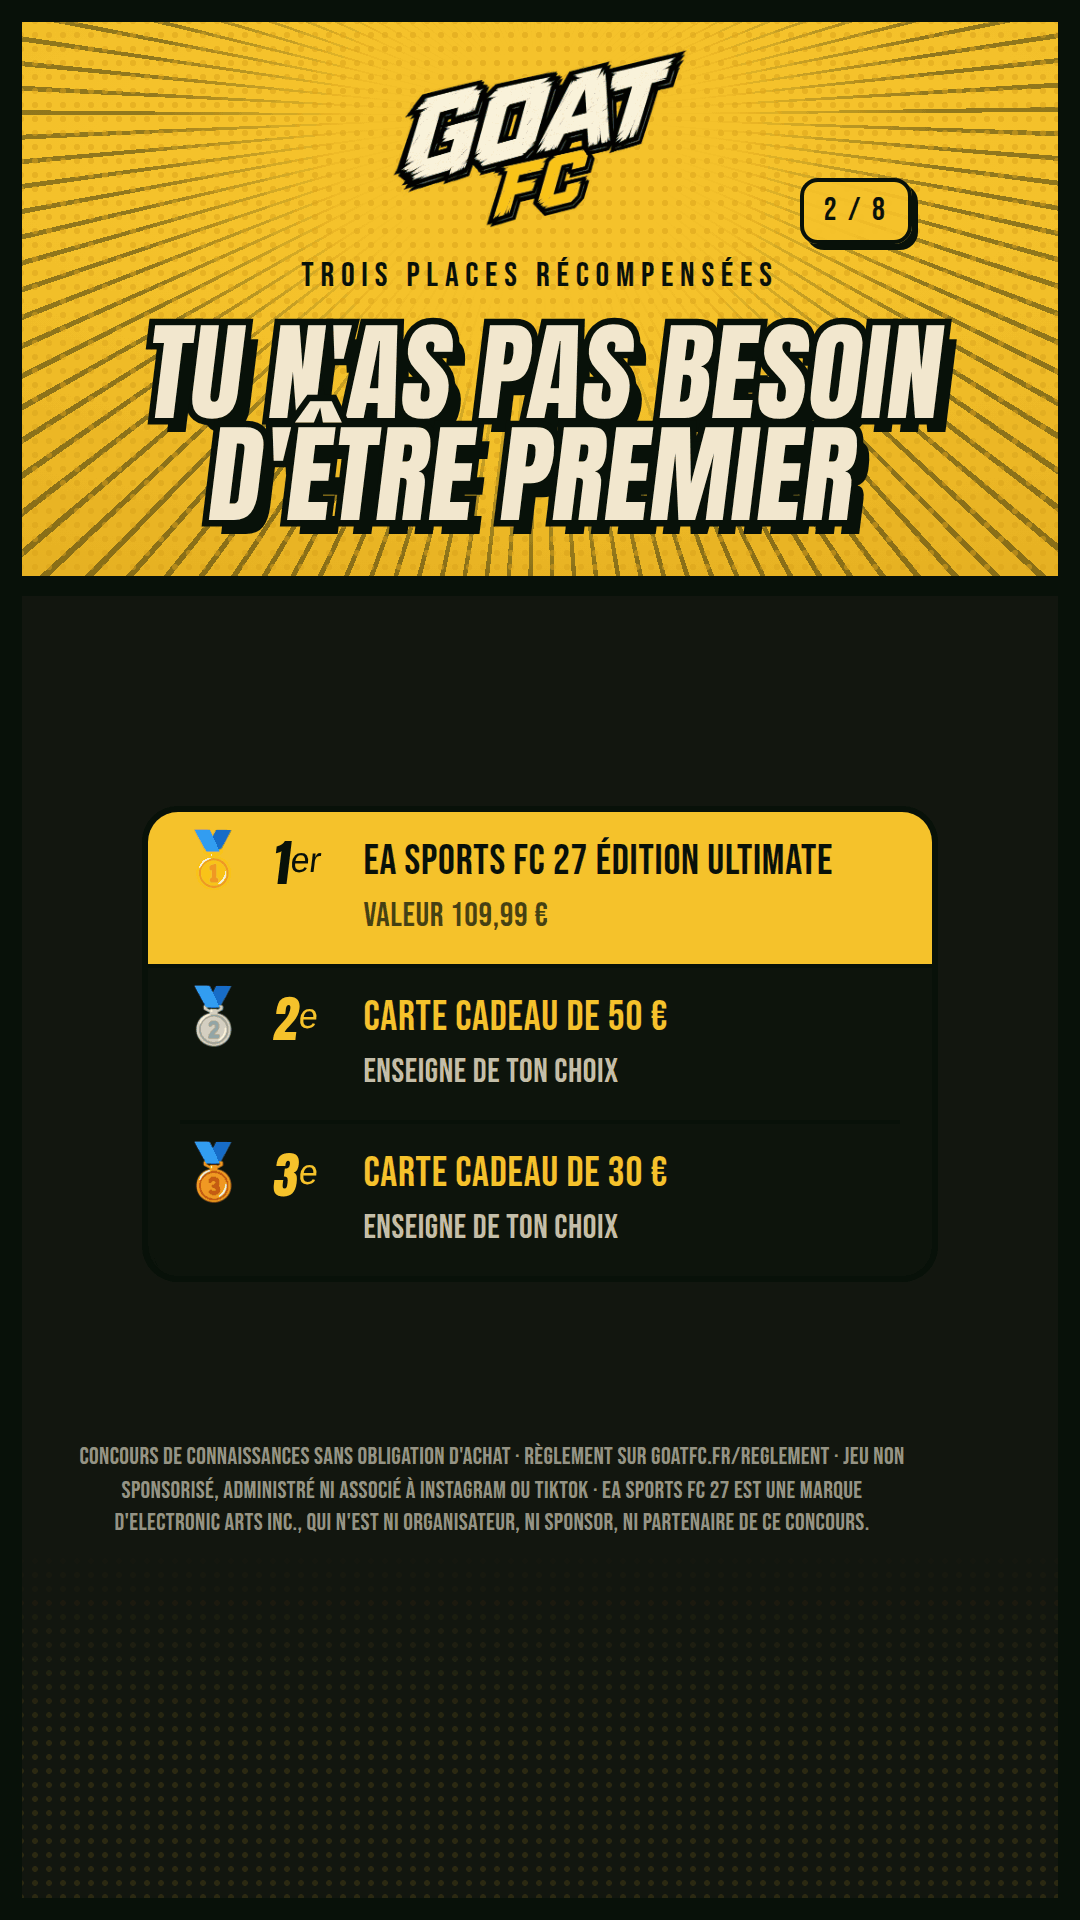
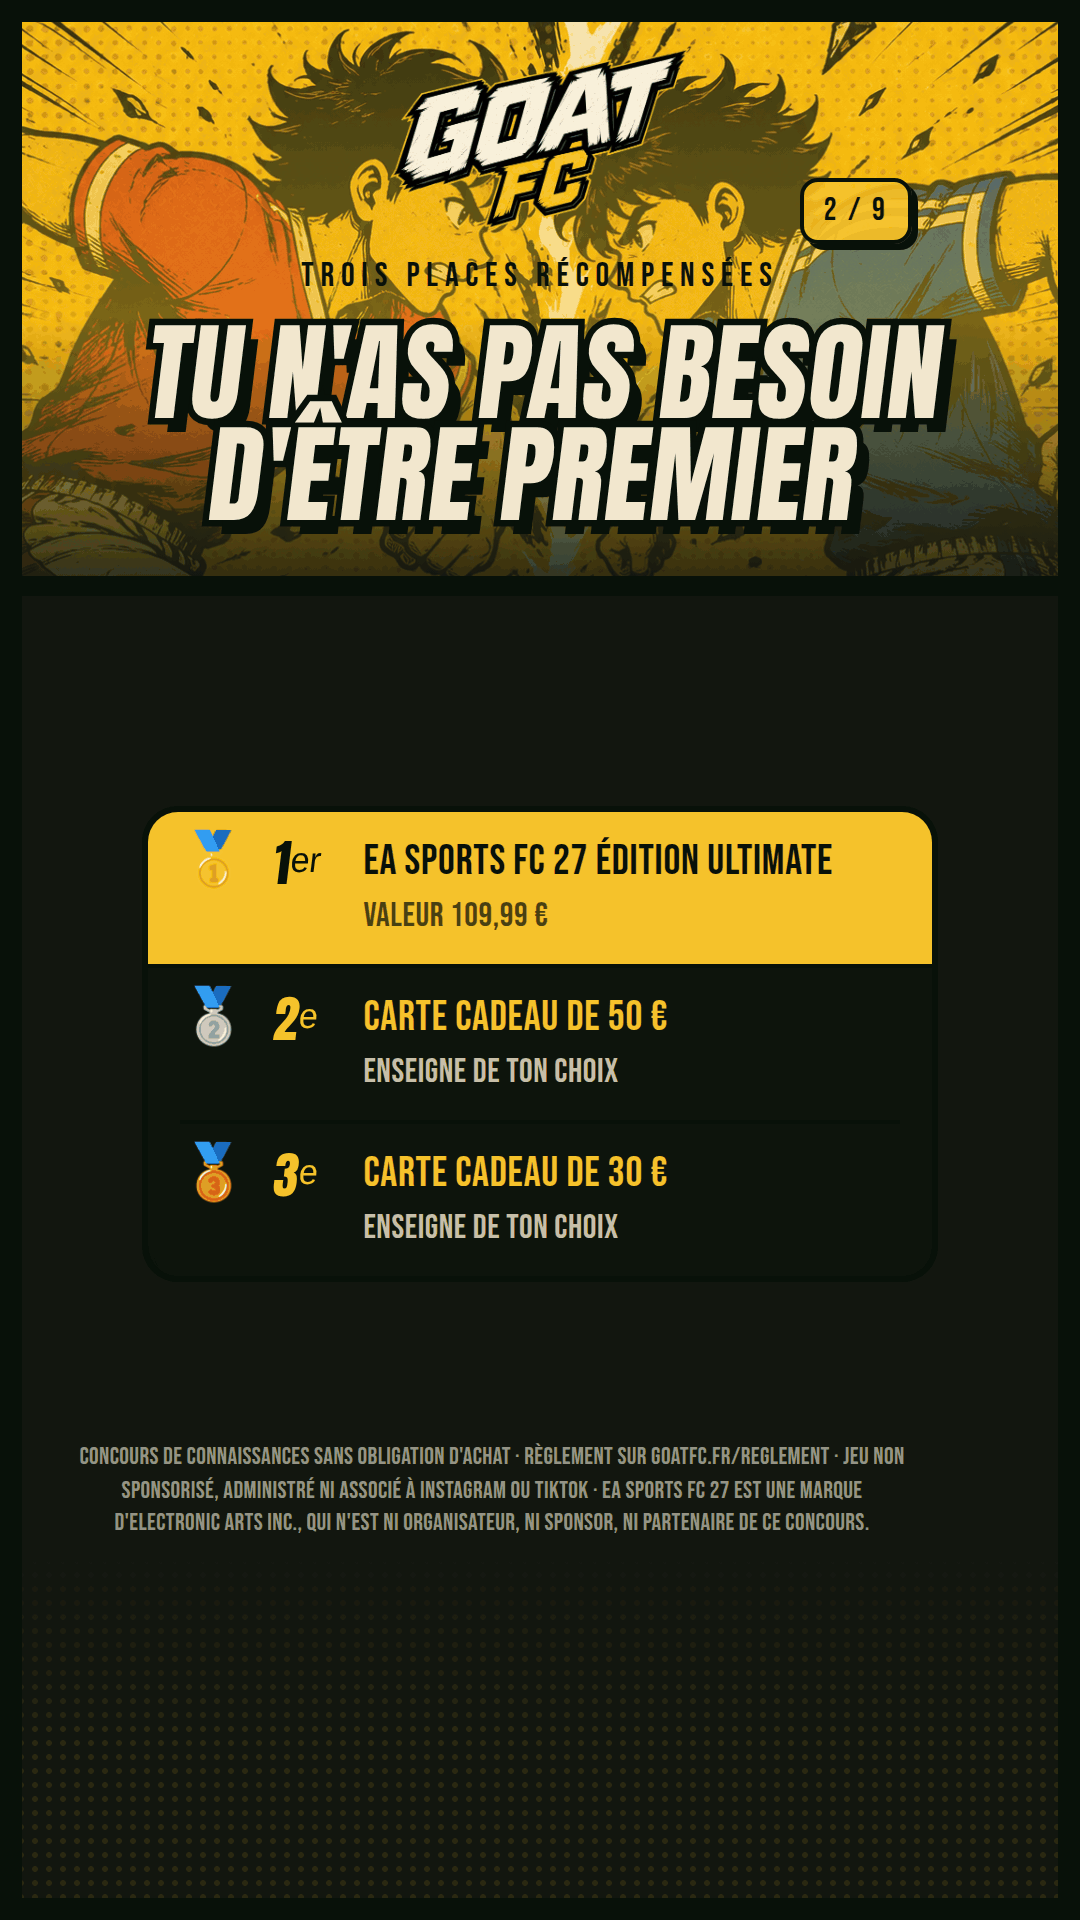
Carrousel : de vraies captures de l'app, et l'illustration manga en fond du podium (#613)
* Carrousel : de vraies captures de l'app, et l'illustration manga en fond

Demande : rendre les visuels plus impactants avec des captures de l'app, et
un podium avec des personnages manga.

── LES CAPTURES SONT DE VRAIES CAPTURES ──────────────────────────────

Produites par scripts/apercu.mjs, pas dessinees. Une maquette montre ce
qu'on voudrait montrer ; une capture montre ce qui existe. Sur un visuel de
concours la difference n'est pas cosmetique — c'est la promesse faite a
quelqu'un qui va installer l'app derriere.

Deux ecrans choisis parce qu'ils EXPLIQUENT le jeu sans legende :
« Manchester United x PSG, un joueur ayant joue dans les deux » et le
parcours en couleurs de clubs de la devinette. Recadres au MEME rapport,
sinon deux telephones cote a cote n'ont pas la meme tete, et le vide d'or du
bas d'ecran ne dit rien du jeu.

Posee en 3e position, juste apres le podium : quelqu'un qui n'a jamais
ouvert l'app ne sait pas ce qu'on lui demande de jouer. Trois diapositives
de regles avant de lui avoir montre l'ecran, c'est expliquer les regles d'un
sport qu'il n'a jamais vu.

Cadrees a la charte — trait d'encre, ombre dure — et volontairement SANS
coque de telephone dessinee : une coque generique ajoute du chrome qui n'est
pas de la charte et vieillit mal.

── LE PODIUM ─────────────────────────────────────────────────────────

JE NE SAIS PAS DESSINER de nouvelles illustrations. Le podium reprend donc
visuels/bruts/duel.png, qui existe deja : deux joueurs manga qui
[…]

Changed region(s): [[0.0, 0.0, 0.9778, 0.3125], [0.1833, 0.5938, 0.2139, 0.625]]

diff --git a/public/sw.js b/public/sw.js
@@ -4,7 +4,7 @@
 // IMPORTANT : bumper CACHE_NAME à chaque deploy pour forcer le navigateur
 // à détecter un nouveau SW (les changements de fichier suffisent en théorie
 // mais ça garantit un install propre côté PWA mobile installée).
-const CACHE_NAME = "goatfc-v552-2026-08-15";
+const CACHE_NAME = "goatfc-v553-2026-08-15";
 
 // Install : on prend la main tout de suite sans attendre la fermeture des onglets
 self.addEventListener("install", (event) => {
